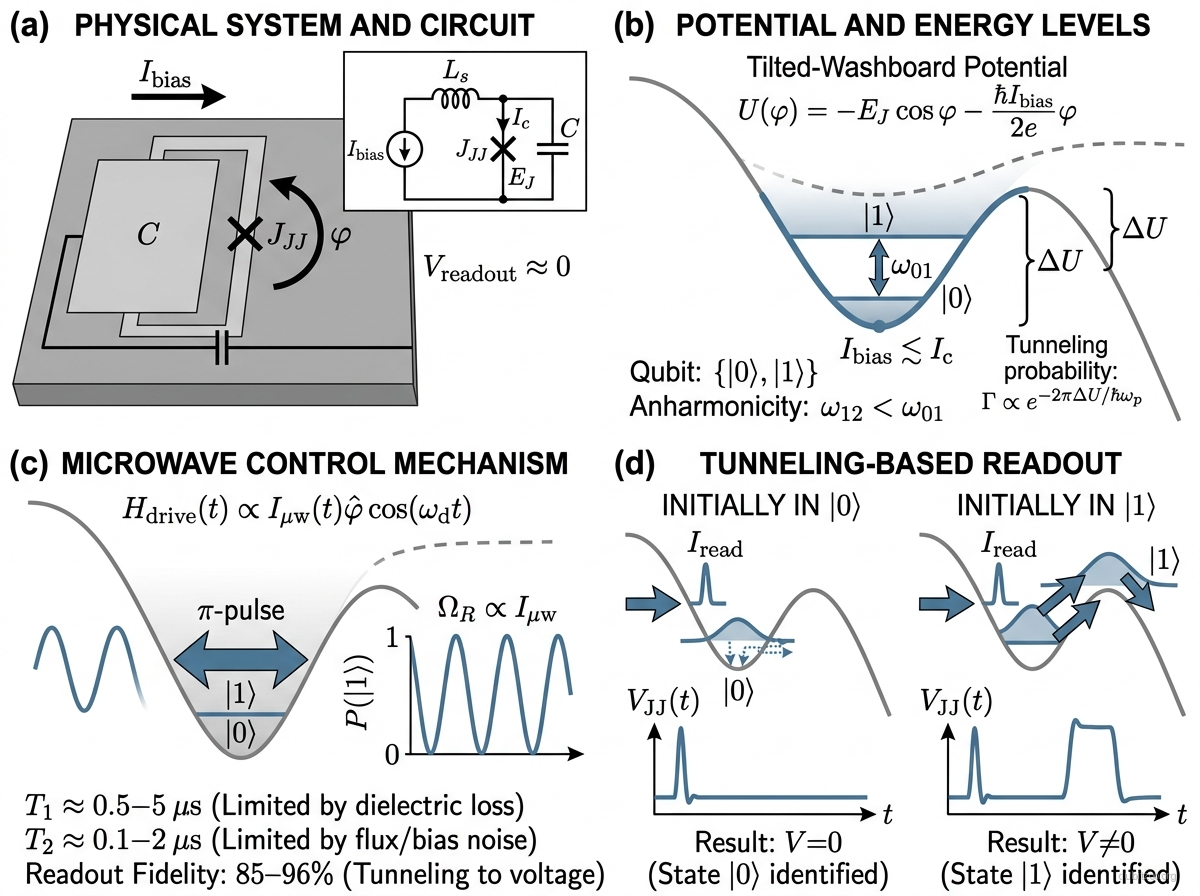
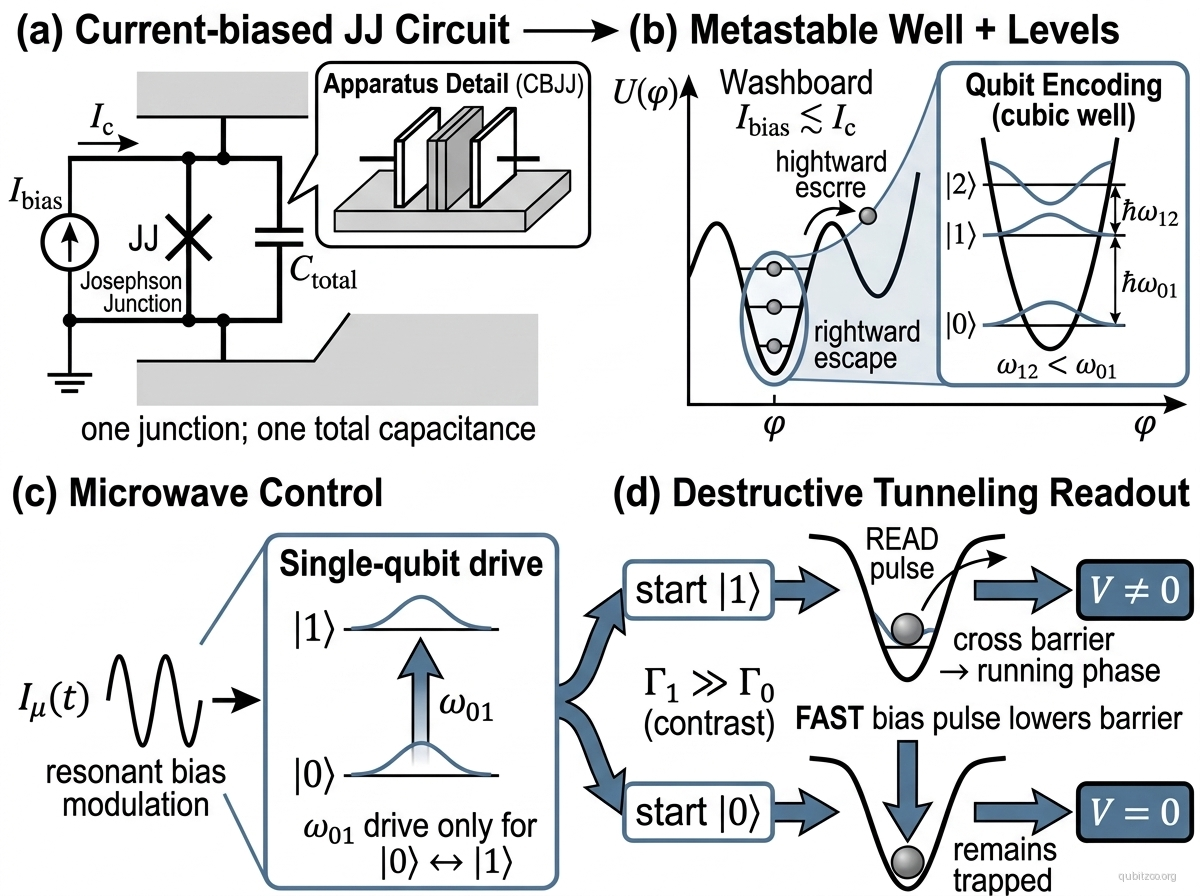
zoo: pass phase-qubit deep audit

diff --git a/content/Zoo/phase-qubit.md b/content/Zoo/phase-qubit.md
@@ -3,7 +3,7 @@ title: Phase Qubit
 entry_type: qubit
 technology_family: Superconducting
 status: demonstrated
-figure_reviewed: false
+figure_reviewed: true
 first_proposed_year: 2002
 first_demonstrated_year: 2002
 keywords:
@@ -13,15 +13,15 @@ keywords:
 - superconducting
 - macroscopic quantum tunneling
 influence_score: 0.65
-last_updated: '2026-08-25'
+last_updated: '2026-08-26'
 generated_by: scibok-curation
 extracted_by: scibok
-verified_by: scibok-deep-audit-2026-08-25
+verified_by: scibok-deep-audit-2026-08-26
 figure_renderer: "nano-banana-2"
 figure_model: "google/gemini-3.1-flash-image-preview"
 figure_provenance: "Figures/phase-qubit-figure.provenance.json"
-figure_reviewed_by: "Codex deep audit 2026-08-25 (failed review; primary retained)"
-figure_reviewed_at: "2026-08-25T14:21:00+00:00"
+figure_reviewed_by: "Scibok daily deep audit 2026-08-26"
+figure_reviewed_at: "2026-08-26T14:17:55.801521+00:00"
 ---
 
 ## Figure
@@ -89,6 +89,7 @@ The phase qubit provided early demonstrations of quantum coherence and entanglem
 **Recent status — 2024–2026:**
 - No phase-qubit processor result or coherence/gate record superseding the early-2010s endpoint was found
 - Ouyang et al. (2024) experimentally revisited the bias-controlled crossover of a current-biased junction from a nearly harmonic oscillator to a nonlinear two-level artificial atom
+- Badarne et al. (2025) theoretically proposed a memory-integrated phase qubit based on a superconducting-ferroelectric Josephson junction whose history-dependent barrier modulates the critical current; it is a device concept, not an experimental phase-qubit revival or processor benchmark
 - Chai et al. (2025, 2026) developed current-biased Josephson-junction threshold-detector protocols from few-photon sensitivity toward simulated single-photon sensitivity using fast nonadiabatic bias sweeps; these are detector results, not a revival of the phase-qubit processor architecture
 
 ## Key Metrics
@@ -117,6 +118,7 @@ The phase qubit provided early demonstrations of quantum coherence and entanglem
 
 ### Recent current-biased-junction context
 - P. H. Ouyang et al., "Experimental evidence for a current-biased Josephson junction acting as either a macroscopic boson or fermion," [Phys. Rev. Research 6, 013236 (2024)](https://doi.org/10.1103/PhysRevResearch.6.013236)
+- M. A. Badarne, E. G. Dalla Torre, and Y. Ivry, "Hybrid superconducting-ferroelectric quantum memristor," [Phys. Rev. Research 7, 043234 (2025)](https://doi.org/10.1103/4746-w9cm)
 - Y. Q. Chai et al., "Measuring weak microwave signals via current-biased Josephson junctions: Approaching the quantum limit of energy detection," [Phys. Rev. B 111, 024501 (2025)](https://doi.org/10.1103/PhysRevB.111.024501)
 - Y. Q. Chai et al., "Measuring weak microwave signals via a current-biased Josephson junction: Suppressing its thermal noise via fast bias current sweeps," [Phys. Rev. B 113, 224503 (2026)](https://doi.org/10.1103/k7jv-j9b5), [arXiv:2510.20570](https://arxiv.org/abs/2510.20570)
 
@@ -134,6 +136,7 @@ The phase qubit provided early demonstrations of quantum coherence and entanglem
 - [[steffen-2006-measurement-entanglement-superconducting]]
 - [[patel-2013-coherent-phase-qubit-silicon-capacitor]]
 - [[ouyang-2024-current-biased-josephson-boson-fermion]]
+- [[badarne-2025-hybrid-superconducting-ferroelectric-memristor]]
 - [[chai-2025-cbjj-quantum-limit-microwave-detection]]
 - [[chai-2026-cbjj-single-photon-detection]]
 

diff --git a/content/References/badarne-2025-hybrid-superconducting-ferroelectric-memristor.md b/content/References/badarne-2025-hybrid-superconducting-ferroelectric-memristor.md
@@ -1,0 +1,23 @@
+---
+title: "Hybrid superconducting-ferroelectric quantum memristor"
+authors: [Maria A. Badarne, Emanuele G. Dalla Torre, Yachin Ivry]
+year: 2025
+journal: "Physical Review Research"
+doi: 10.1103/4746-w9cm
+type: reference
+generated_by: scibok-deep-audit
+last_updated: '2026-08-26'
+---
+
+This theory paper proposed a superconducting-ferroelectric-superconducting Josephson junction whose history-dependent ferroelectric polarization modulates the junction critical current, and used it to formulate a memory-integrated phase-qubit concept.
+
+## Key Results
+- Derived a coupled Josephson-junction and ferroelectric-barrier Hamiltonian and equivalent circuit description
+- Predicted history-dependent critical-current and voltage behavior from the ferroelectric polarization state
+- Presented a memory-integrated phase qubit as a theoretical device concept rather than an experimental processor result
+
+## Links
+- **Journal:** [Physical Review Research](https://doi.org/10.1103/4746-w9cm)
+
+## Zoo Links
+- [[phase-qubit]]
